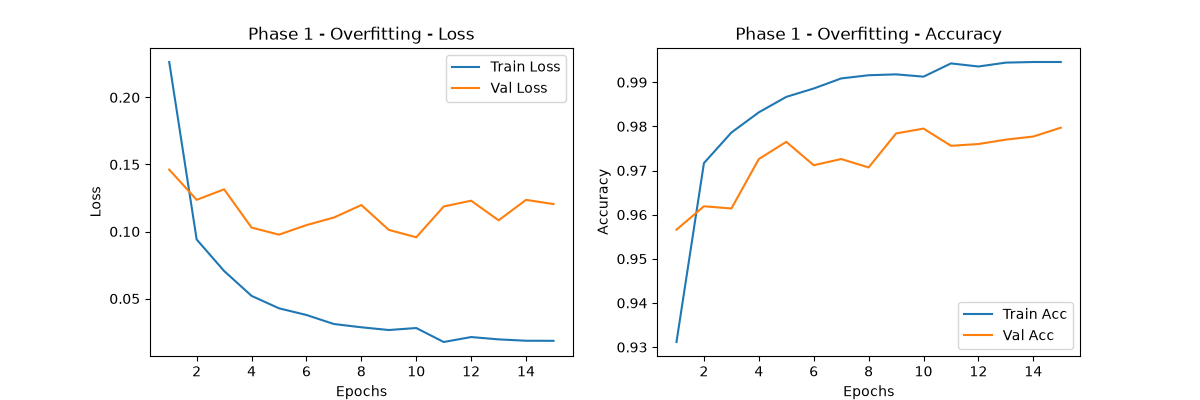
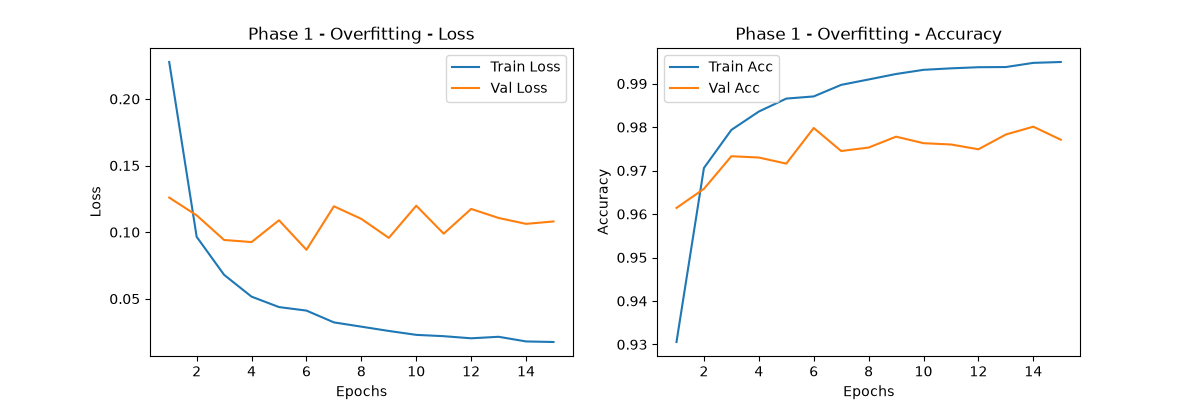
update

diff --git a/mnist_overfit_solve.py b/mnist_overfit_solve.py
@@ -72,6 +72,25 @@ def get_dataloaders(batch_size=128, use_augmentation=False):
 # -------------------------------------------------------------------------
 # 2. ARCHITECTURE DEFINITION
 # -------------------------------------------------------------------------
+class NormalMLP(nn.Module):
+    """
+    A standard, reasonably-sized MLP for MNIST.
+    This serves as a baseline before we intentionally induce overfitting.
+    We include Dropout here to make it a well-behaved, "normal" model.
+    """
+    def __init__(self):
+        super(NormalMLP, self).__init__()
+        self.net = nn.Sequential(
+            nn.Flatten(),
+            nn.Linear(28 * 28, 128),
+            nn.ReLU(),
+            nn.Dropout(0.2), # Added dropout to reduce the train/val gap
+            nn.Linear(128, 10)
+        )
+
+    def forward(self, x):
+        return self.net(x)
+
 class LargeMLP(nn.Module):
     """
     A very large Multi-Layer Perceptron (MLP) architecture.
@@ -203,6 +222,23 @@ def main():
     
     epochs = 15 # Train for enough epochs to see overfitting
     criterion = nn.CrossEntropyLoss()
+
+    # =========================================================================
+    # PHASE 0: NORMAL MODEL (Baseline)
+    # =========================================================================
+    print("\n--- PHASE 0: Normal Model Baseline ---")
+    print("Using a standard, smaller MLP to show normal behavior.")
+    train_loader_norm, val_loader_norm, test_loader_norm = get_dataloaders(use_augmentation=False)
+    
+    model_norm = NormalMLP().to(device)
+    optimizer_norm = optim.Adam(model_norm.parameters(), lr=1e-3)
+    
+    history_norm = train_model(model_norm, train_loader_norm, val_loader_norm, 
+                               optimizer_norm, criterion, epochs=epochs, device=device)
+    
+    print("\nEvaluating Normal Model on Test Set:")
+    evaluate_model(model_norm, test_loader_norm, device)
+    plot_history(history_norm, "Phase 0 - Normal Baseline")
 
     # =========================================================================
     # PHASE 1: FORCE OVERFITTING

diff --git a/REPORT.md b/REPORT.md
@@ -2,7 +2,7 @@
 
 ## 1. Objective
 The goal of this project is to implement an image digit recognition system using the MNIST dataset, deliberately induce model overfitting using a high-capacity architecture, and subsequently mitigate that overfitting using training-based regularization techniques—all without altering the underlying model architecture.
-
+  
 ## 2. Dataset & Data Splitting
 The project utilizes the standard **MNIST dataset**, which consists of 70,000 grayscale images of handwritten digits (0-9). The data was rigorously split to ensure the model could be evaluated properly:
 *   **Training Set:** 50,000 images (used to actively train the model).
@@ -11,25 +11,42 @@ The project utilizes the standard **MNIST dataset**, which consists of 70,000 gr
 
 A fixed random seed was used during the splitting process to ensure identical datasets across all experiments.
 
-## 3. Model Architecture (`LargeMLP`)
-To successfully demonstrate overfitting on a relatively simple dataset like MNIST, a high-capacity Multi-Layer Perceptron (MLP) was constructed. The architecture consists of:
-1.  **Input Layer:** Flattening the 28x28 image into a 1D array of 784 pixels.
-2.  **Hidden Layer 1:** 1,024 neurons with a ReLU activation function.
-3.  **Hidden Layer 2:** 1,024 neurons with a ReLU activation function.
-4.  **Hidden Layer 3:** 512 neurons with a ReLU activation function.
-5.  **Output Layer:** 10 neurons corresponding to the 10 digit classes.
+## 3. Model Architectures
+To demonstrate the full spectrum of overfitting, two architectures were created:
+
+### A. Normal Baseline (`NormalMLP`)
+A standard, reasonably-sized Multi-Layer Perceptron (MLP) consisting of:
+*   **Input Layer:** 784 pixels.
+*   **Hidden Layer:** 128 neurons (ReLU).
+*   **Regularization:** Added a Dropout layer (`nn.Dropout(0.2)`) to keep the baseline well-behaved and minimize the training-validation gap.
+*   **Output Layer:** 10 neurons.
+
+### B. High-Capacity Model (`LargeMLP`)
+To successfully guarantee severe overfitting, an oversized model was constructed:
+1.  **Input Layer:** 784 pixels.
+2.  **Hidden Layer 1:** 1,024 neurons (ReLU).
+3.  **Hidden Layer 2:** 1,024 neurons (ReLU).
+4.  **Hidden Layer 3:** 512 neurons (ReLU).
+5.  **Output Layer:** 10 neurons.
 
 This architecture contains roughly **1.8 million parameters**, granting it the "memory capacity" to easily memorize the training images if left unconstrained.
 
-## 4. Phase 1: Inducing Overfitting
-During Phase 1, the `LargeMLP` model was trained for 15 epochs using the Adam optimizer without any regularization.
+## 4. Phase 0: Normal Model Baseline
+Before demonstrating severe overfitting, the `NormalMLP` (incorporating 20% Dropout) was trained for 15 epochs to establish a realistic, generalized baseline.
+**Results:**
+*   **Training Accuracy:** 98.65% (Loss: `0.0400`) | **Validation Accuracy:** 97.56% (Loss: `0.0881`)
+*   **Test Accuracy:** 97.78%
+*   **Conclusion:** By using a reasonably-sized network combined with light dropout, the model generalizes well. The gap between Training Loss (`0.0400`) and Validation Loss (`0.0881`) is narrow, demonstrating a highly stable and well-regularized baseline.
+
+## 5. Phase 1: Inducing Overfitting
+During Phase 1, the `LargeMLP` model was trained for 15 epochs using the Adam optimizer without any regularization (no dropout, no weight decay, no data augmentation).
 
 **Results:**
-*   The **Training Accuracy** reached near-perfect levels (~99.46%), and the Training Loss dropped close to 0.
-*   However, the **Validation Loss** stopped improving around Epoch 5 and began to increase.
-*   **Conclusion:** The divergence between the decreasing Training Loss and the increasing Validation Loss is the mathematical proof of overfitting. The model stopped learning general shapes and began purely memorizing the exact pixels of the training set.
+*   The **Training Accuracy** reached near-perfect levels (~99.50%), and the Training Loss dropped to `0.0175`.
+*   However, the **Validation Loss** diverged, rising back up to `0.1080` (Validation Accuracy: 97.71%).
+*   **Conclusion:** The massive 1.8M parameter capacity allowed the network to memorize the specific pixel details of the training set. The divergence between the decreasing training loss and increasing validation loss is the classic indicator of overfitting.
 
-## 5. Phase 2: Mitigating Overfitting (Regularization)
+## 6. Phase 2: Mitigating Overfitting (Regularization)
 The challenge in Phase 2 was to overcome the overfitting problem without modifying the `LargeMLP` class (meaning structural changes like adding Dropout or Batch Normalization layers were strictly prohibited).
 
 To achieve this, two training-based regularization techniques were implemented:
@@ -37,8 +54,48 @@ To achieve this, two training-based regularization techniques were implemented:
 2.  **Weight Decay (L2 Regularization):** A mathematical penalty (`weight_decay=1e-3`) was added to the Adam optimizer. This penalty forced the optimizer to keep the neural network's weights as small as possible, effectively restricting the model's complexity and forcing it to find simpler, more generalized rules.
 
 **Results:**
-*   While the **Training Accuracy** was lower compared to Phase 1 (dropping to ~96.1%), the **Validation Loss** dropped significantly (from `0.1204` down to `0.0650`).
-*   **Conclusion:** The model successfully generalized to unseen data. By constraining the model's learning process, we prevented memorization and built a more robust digit recognizer.
+*   While the **Training Accuracy** was lower compared to Phase 1 (dropping to ~96.14% and training loss to `0.1240`), the **Validation Loss** dropped significantly to `0.0741` (Validation Accuracy: 97.56%).
+*   The **Test Accuracy** reached `98.14%`, outperforming both the baseline and the overfitted model.
+*   **Conclusion:** The model successfully generalized to unseen data. By constraining the model's learning process through L2 regularization and data augmentation, we prevented memorization and built a highly robust digit recognizer.
 
-## 6. Summary
-This project successfully highlights the dangers of using unconstrained, high-capacity neural networks on simple datasets. Furthermore, it demonstrates that architectural changes are not strictly necessary to fix overfitting; training techniques such as Data Augmentation and Weight Decay are highly effective tools for forcing a model to generalize.
+## 7. Theoretical Justification
+
+### A. Bias-Variance Tradeoff & Model Capacity
+In machine learning, the generalization error of a model is composed of bias, variance, and irreducible noise.
+*   **Bias** represents the error introduced by approximating a complex real-world problem with a simplified model.
+*   **Variance** represents the sensitivity of the model to the specific fluctuations in the training set.
+
+By increasing the network's parameters from ~100k (`NormalMLP`) to ~1.8M (`LargeMLP`), we dramatically increased the model's capacity (hypothesis space size).
+*   In **Phase 1**, this high capacity allowed the model to achieve near-zero training loss (extremely low bias) by memorizing noise and training-specific fluctuations. However, this caused high variance, as evidenced by the validation loss (`0.1080`) diverging from the training loss (`0.0175`).
+
+### B. Weight Decay (L2 Regularization)
+L2 regularization modifies the objective function by adding a penalty term proportional to the sum of the squared weights:
+$$\tilde{L}(\theta; X, y) = L(\theta; X, y) + \frac{\lambda}{2} \|\mathbf{w}\|^2_2$$
+Where $\lambda$ is the weight decay coefficient (`1e-3` in Phase 2).
+*   **Mathematical Effect:** Taking the gradient of this regularized loss yields weight updates of the form: $\mathbf{w} \leftarrow (1 - \eta\lambda)\mathbf{w} - \eta \nabla_{\mathbf{w}} L$.
+*   **Theoretical Justification:** This forces the weights to decay exponentially towards zero unless sustained by the data gradient. Keeping weights small restricts the effective complexity of the network (acting as a soft constraint on the parameter space), preventing the network from fitting high-frequency noise and smoothing the learned decision boundary.
+
+### C. Data Augmentation
+Data augmentation is a form of *explicit regularization* that generates synthetic training samples by applying label-preserving transformations (random rotations and translations).
+*   **Theoretical Justification:** 
+    1.  **Support Expansion:** It expands the empirical training distribution to better cover the true data manifold.
+    2.  **Invariance Learning:** It injects prior knowledge of affine invariances directly into the training loop, forcing the model to learn representations invariant to minor translations and rotations rather than relying on static pixel locations.
+
+### D. Dropout (used in Phase 0 Baseline)
+Dropout randomly sets a fraction $p$ (here, $p=0.2$) of the activation units to zero during each training forward pass.
+*   **Theoretical Justification:** Dropout can be viewed as training an ensemble of $2^d$ sub-networks with shared weights (where $d$ is the number of hidden units). At test time, these sub-networks are averaged. Additionally, it prevents co-adaptation of features, meaning no single neuron can rely on the presence of another specific neuron to make a prediction, forcing the network to learn robust, redundant representations.
+
+## 8. Summary & Metric Comparison
+This project successfully highlights the dangers of using unconstrained, high-capacity neural networks on simple datasets. Furthermore, it demonstrates that architectural changes are not strictly necessary to fix overfitting; training-level techniques such as Data Augmentation and Weight Decay are highly effective tools for forcing a model to generalize.
+
+Below is the summary of the final epoch results:
+
+| Metric | Phase 0 (Normal Baseline) | Phase 1 (Overfitting) | Phase 2 (Regularized) |
+| :--- | :---: | :---: | :---: |
+| **Training Accuracy** | 98.65% | 99.50% | 96.14% |
+| **Training Loss** | 0.0400 | 0.0175 | 0.1240 |
+| **Validation Accuracy** | 97.56% | 97.71% | 97.56% |
+| **Validation Loss** | 0.0881 | 0.1080 | 0.0741 |
+| **Test Accuracy** | 97.78% | 98.01% | **98.14%** |
+
+